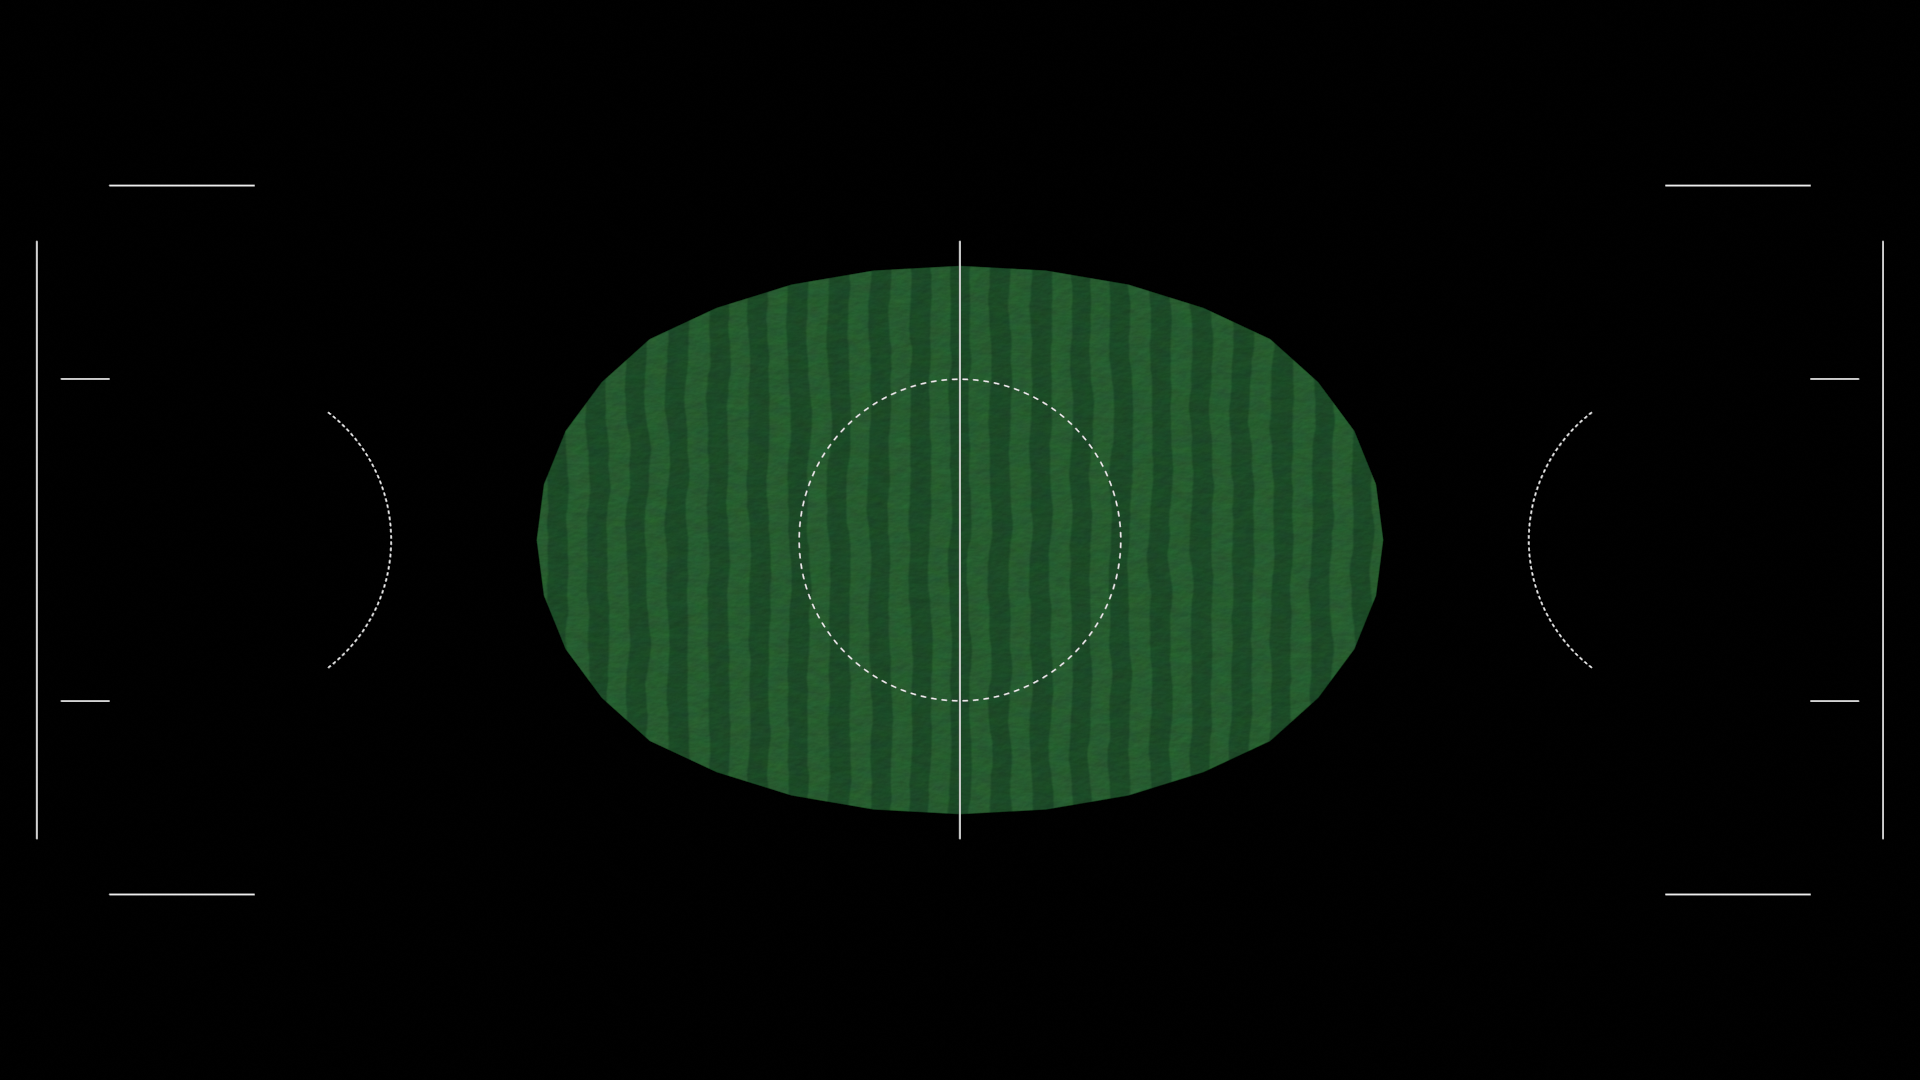
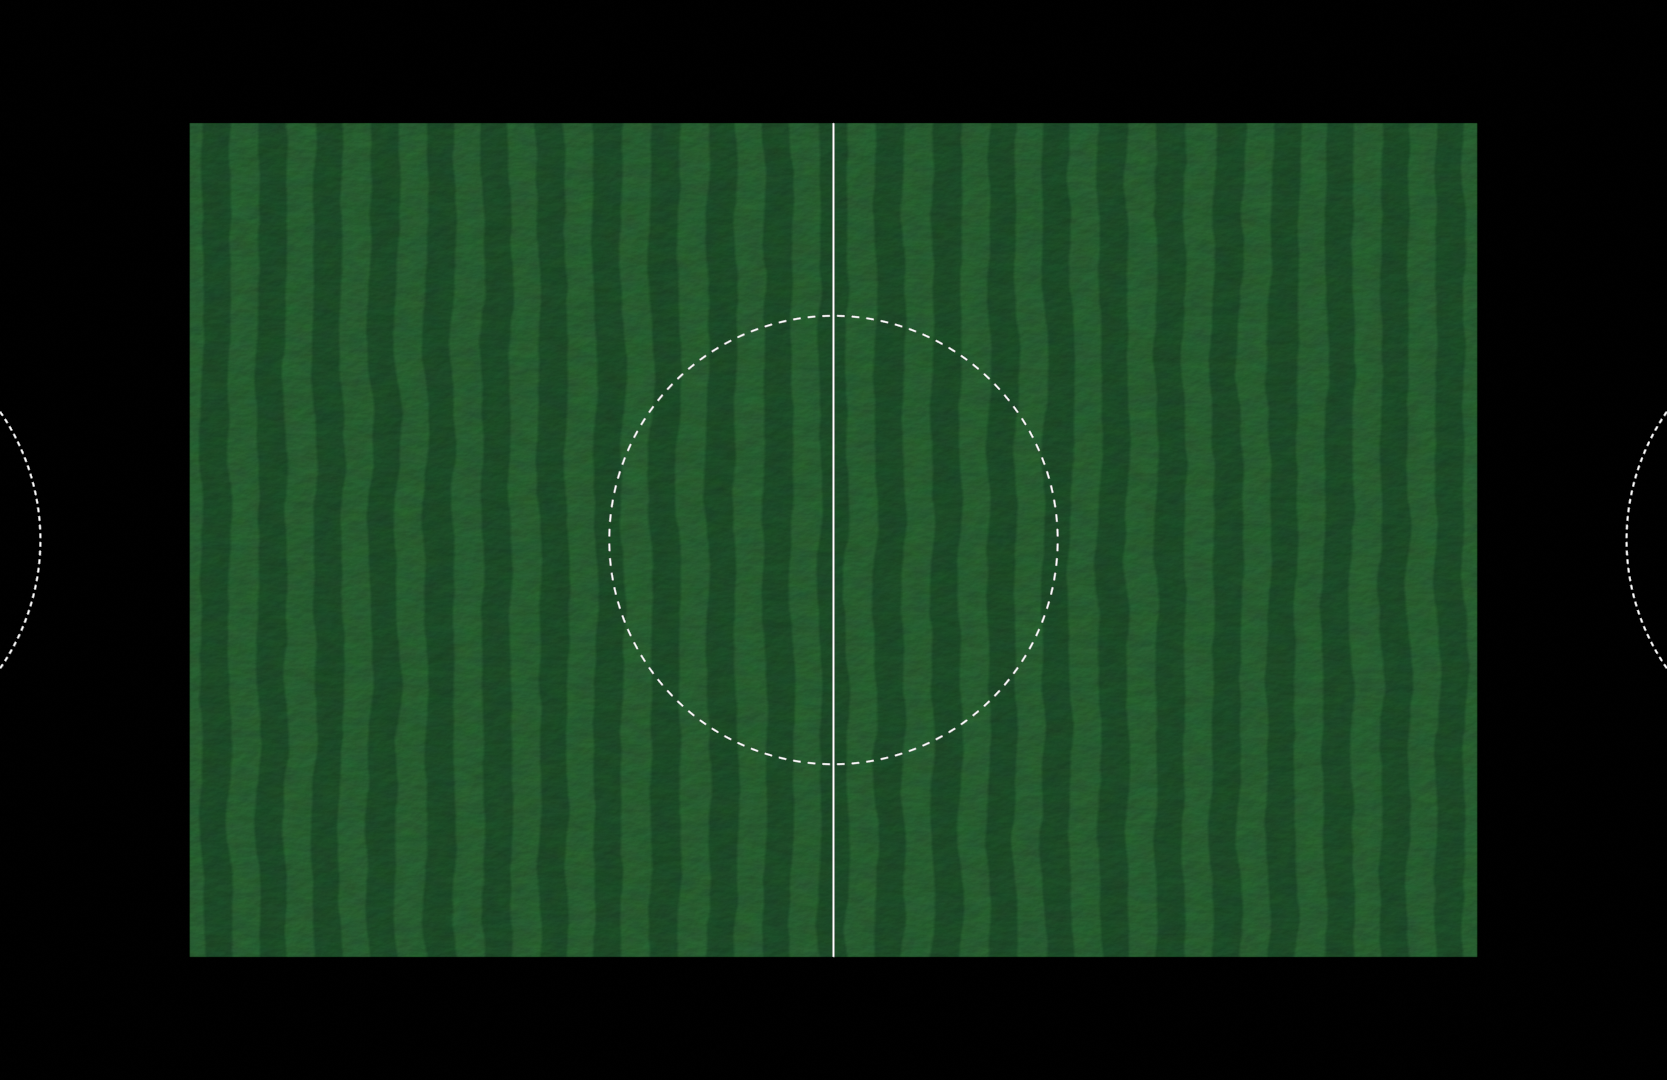
Fix field: strict rectangle, no subsurf oval, match camera aspect to remove black bars

diff --git a/blender/scenes/build_part_field.py b/blender/scenes/build_part_field.py
@@ -203,15 +203,8 @@ def build_field_only() -> None:
     half_w = PITCH_WIDTH / 2
     lz = 0.025
 
-    # 芝生（細分化で寄りショット用）
-    bpy.ops.mesh.primitive_plane_add(size=1, location=(0, 0, 0))
-    pitch = bpy.context.active_object
-    pitch.name = "Field_Grass"
-    pitch.scale = (PITCH_LENGTH / 2, PITCH_WIDTH / 2, 1)
-    pitch.data.materials.append(grass)
-    sub = pitch.modifiers.new("Subsurf", "SUBSURF")
-    sub.levels = 2
-    sub.render_levels = 3
+    # 芝生 — 完全な長方形（Subsurfなし＝角が丸くならない）
+    add_plane("Field_Grass", PITCH_LENGTH, PITCH_WIDTH, Vector((0, 0, 0)), grass)
 
     # --- 外枠 ---
     add_line_segment("Line_Top", -half_l, half_w, half_l, half_w, white, lz)
@@ -278,8 +271,9 @@ def _remove_cameras() -> None:
 def render_wide() -> Path:
     scene = bpy.context.scene
     scene.render.engine = "BLENDER_EEVEE"
-    scene.render.resolution_x = 1920
+    field_aspect = PITCH_LENGTH / PITCH_WIDTH
     scene.render.resolution_y = 1080
+    scene.render.resolution_x = int(scene.render.resolution_y * field_aspect)
     scene.eevee.taa_render_samples = 64
     setup_black_world()
     _remove_cameras()
@@ -291,7 +285,8 @@ def render_wide() -> Path:
     cam.rotation_euler = (0, 0, 0)
     scene.camera = cam
     cam.data.type = "ORTHO"
-    cam.data.ortho_scale = max(PITCH_LENGTH, PITCH_WIDTH) * 1.04
+    # 縦幅＝ピッチ幅ぴったり → 横もピッチ長に一致、左右の黒帯なし
+    cam.data.ortho_scale = PITCH_WIDTH
 
     out = RENDER_DIR / "field_wide.png"
     RENDER_DIR.mkdir(parents=True, exist_ok=True)
